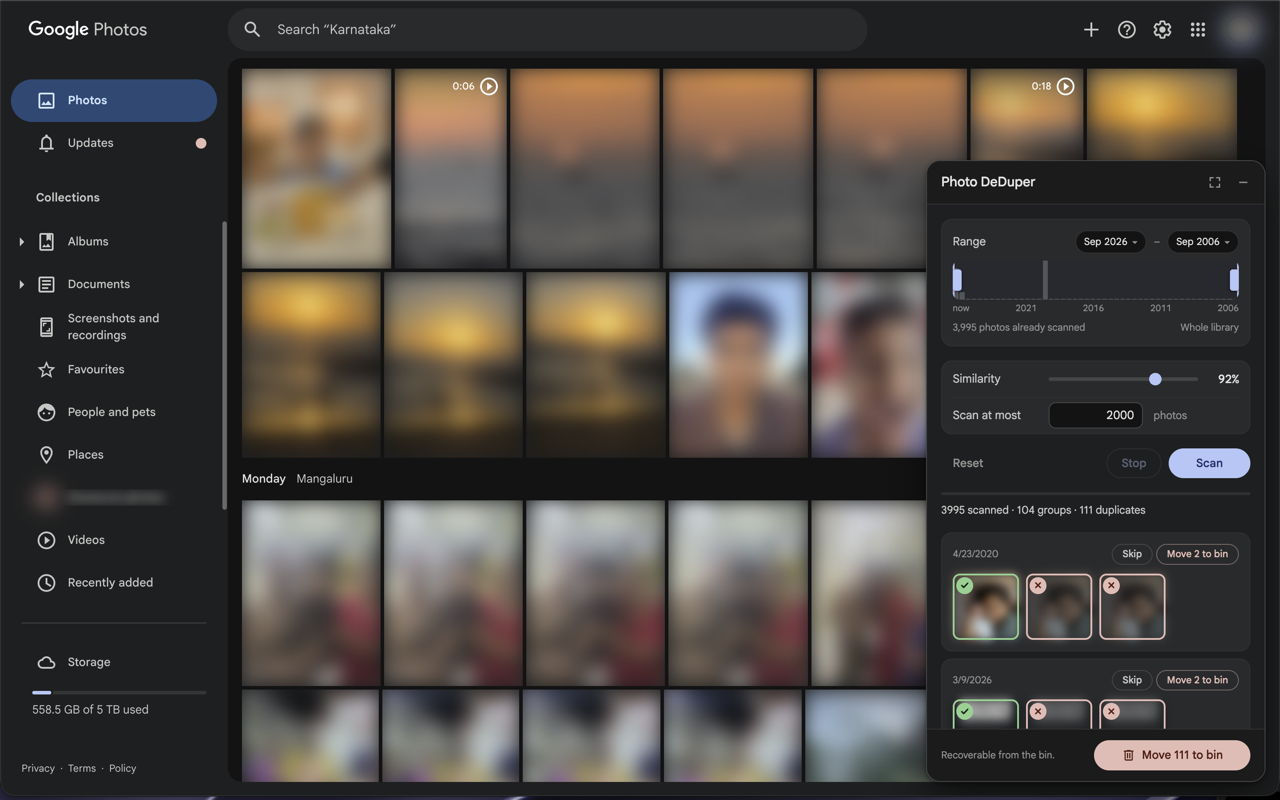
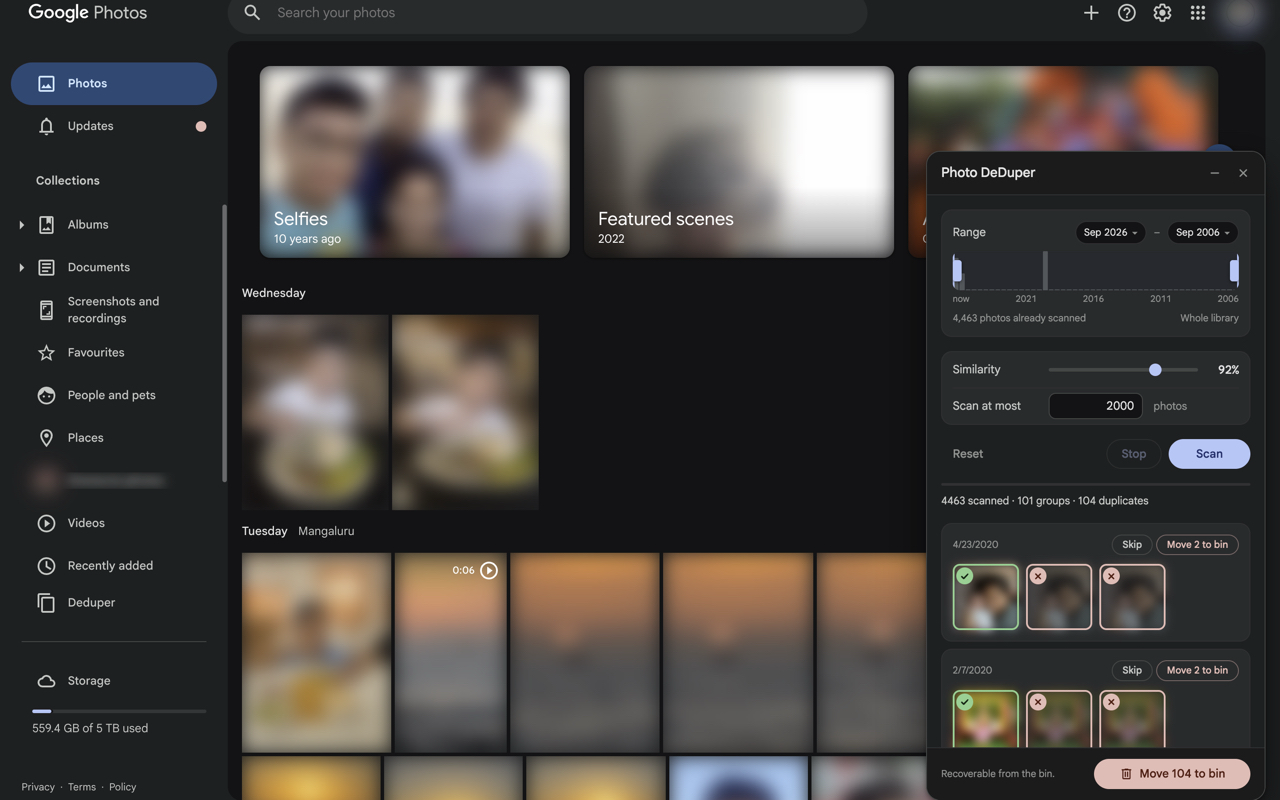
fix(ui): nothing reads the photo grid, so stop warning about it
The startup self-check was the only caller left of selectors.js: scanning,
grouping, preview and deletion all go through the page's own RPCs. On a view
without tiles it put up "Google Photos looks different" and never took it back,
which was wrong on every count. Both are gone.

Two other fixes and new listing screenshots:

- Arming the bin button remembers the status line and restores it when the
  fifteen-second timer disarms, instead of leaving the confirm sentence under a
  button that no longer confirms anything.
- Closing the panel sticks across reloads, and a note beside the sidebar says
  where to open it again.
- Four store screenshots at 1280x800 with no alpha channel, and STORE.md's
  permission justifications no longer describe reading the grid.

diff --git a/src/ui/nav.js b/src/ui/nav.js
@@ -48,6 +48,46 @@ window.GPDD.ui = window.GPDD.ui || {};
     return a;
   }
 
+  // Closing the panel leaves nothing on screen to say it can come back, so a
+  // note points at the entry for a few seconds. In its own shadow root, like
+  // the panel, so the page cannot style it.
+  let note = null;
+  function hint(entry) {
+    if (!note) {
+      note = document.createElement('div');
+      const root = note.attachShadow({ mode: 'open' });
+      root.innerHTML = /* HTML */ `
+        <style>
+          .n {
+            position: fixed;
+            z-index: 2147483647;
+            max-width: 240px;
+            padding: 10px 12px;
+            border-radius: 8px;
+            background: #303134;
+            color: #e8eaed;
+            font: 13px/1.4 Roboto, Arial, sans-serif;
+            box-shadow: 0 4px 16px #0009;
+            opacity: 0;
+            transition: opacity 0.2s;
+          }
+          .n.on {
+            opacity: 1;
+          }
+        </style>
+        <div class="n">Photo DeDuper is closed. Open it again from <b>Deduper</b> in the sidebar.</div>
+      `;
+      document.documentElement.append(note);
+    }
+    const n = note.shadowRoot.querySelector('.n');
+    const r = entry.getBoundingClientRect();
+    n.style.left = `${Math.round(r.right + 12)}px`;
+    n.style.top = `${Math.round(r.top)}px`;
+    n.classList.add('on');
+    clearTimeout(hint.t);
+    hint.t = setTimeout(() => n.classList.remove('on'), 6000);
+  }
+
   function mount(ui) {
     let entry = null;
     const place = () => {
@@ -64,8 +104,11 @@ window.GPDD.ui = window.GPDD.ui || {};
         wrap.appendChild(entry);
         storage.before(wrap);
       } else bin.after(entry);
-      ui.onVisibility = (on) => entry.setAttribute('aria-pressed', String(on));
-      ui.onVisibility(ui.host.style.display !== 'none');
+      ui.onVisibility = (on) => {
+        entry.setAttribute('aria-pressed', String(on));
+        if (!on) hint(entry);
+      };
+      entry.setAttribute('aria-pressed', String(ui.host.style.display !== 'none'));
     };
     place();
     // Google rebuilds the sidebar on navigation, which drops the entry. The

diff --git a/src/content.js b/src/content.js
@@ -1,7 +1,7 @@
 window.GPDD = window.GPDD || {};
 
 (() => {
-  const { sel, store, scanner, grouping, api } = window.GPDD;
+  const { store, scanner, grouping, api } = window.GPDD;
   const { mount, results, nav } = window.GPDD.ui;
   if (window.__gpddBooted) return;
   window.__gpddBooted = true;
@@ -17,27 +17,14 @@ window.GPDD = window.GPDD || {};
     if (msg && msg.type === 'togglePanel') ui.toggle();
   });
 
-  // The content script runs before the grid has rendered, so the check waits for
-  // tiles to appear rather than reporting an empty page as a broken one.
   refreshHistogram();
-
-  (async () => {
-    for (let i = 0; i < 30; i++) {
-      if (sel.liveTiles().length) break;
-      await new Promise((r) => setTimeout(r, 500));
-    }
-    const problems = sel.selfCheck();
-    if (problems.length) {
-      ui.setWarn('Google Photos looks different than this extension expects: ' + problems.join('; '));
-    }
-  })();
 
   // Reported once per render rather than per image, so a handful of dead
   // thumbnails says so plainly instead of leaving silent gaps in the review.
   ui.setThumbWarning = (n) => {
     ui.setWarn(
-      `${n} thumbnail${n === 1 ? '' : 's'} could not be loaded. Those photos are still in the results; ` +
-        'scroll the grid past them, or scan again, to pick up fresh links.'
+      `${n} thumbnail${n === 1 ? '' : 's'} could not be loaded. Those photos are still in the results and ` +
+        'can still be binned; scan again to pick up fresh thumbnail links.'
     );
   };
 
@@ -328,8 +315,10 @@ window.GPDD = window.GPDD || {};
   ui.del.onclick = () => {
     const n = state.toDelete.size;
     if (!armed) {
+      const was = ui.status.textContent;
       armed = setTimeout(() => {
         armed = null;
+        ui.setStatus(was, { keepUndo: true });
         refresh();
       }, 15000);
       // Kept short on purpose: a longer label reflows the footer and moves the

diff --git a/src/ui/panel.js b/src/ui/panel.js
@@ -6,6 +6,8 @@ window.GPDD.ui = window.GPDD.ui || {};
 (() => {
   const { CSS, ICON, range, preview, results } = window.GPDD.ui;
 
+  const HIDDEN = 'gpdd-hidden';
+
   const HTML = /* HTML */ `
     <div class="panel" data-ref="panel">
       <div class="hd"><b>Photo DeDuper</b><button class="min" data-ref="min" title="Minimise"></button><button class="close" data-ref="close" title="Close"></button></div>
@@ -60,6 +62,11 @@ window.GPDD.ui = window.GPDD.ui || {};
   function mount() {
     const host = document.createElement('div');
     host.id = 'gpdd-host';
+    // Closing the panel is meant to stick: it stays shut across reloads until
+    // the sidebar entry opens it again.
+    try {
+      if (localStorage.getItem(HIDDEN) === '1') host.style.display = 'none';
+    } catch {}
     const root = host.attachShadow({ mode: 'open' });
     const style = document.createElement('style');
     // Tokens and shared parts first, then each module's own rules, so a
@@ -134,6 +141,9 @@ window.GPDD.ui = window.GPDD.ui || {};
     // sidebar entry listens so it can mark itself selected while the panel is up.
     ui.toggle = (on = host.style.display === 'none') => {
       host.style.display = on ? '' : 'none';
+      try {
+        localStorage.setItem(HIDDEN, on ? '0' : '1');
+      } catch {}
       if (ui.onVisibility) ui.onVisibility(on);
     };
     return ui;

diff --git a/TODO.md b/TODO.md
@@ -10,7 +10,6 @@
 - [x] Guard against union-find chaining in src/grouping.js: members are merged transitively, so A~B and B~C puts A and C in one group even when A and C are 10 bits apart. The flat-crop fix removed the worst case, but a long chain of gradual near-matches can still over-merge. Consider capping group diameter, or splitting a group when its max pairwise distance exceeds ~2x the threshold.
 - [x] deleter: tiles under the 380px panel get a CDP click the panel swallows. Confirmed live: document.elementFromPoint at the safeRect centre of 7 of 38 clickable tiles returns DIV#gpdd-host. content.js never calls ui.setScanning(true) for a delete run, so the full panel is over the grid. Fix by reusing the scanbar for deletes, or by threading blockedRect into deleter.run the way hash.croppable already takes it. This, not the selection-toolbar reflow of 9a6ecf7, is the likely cause of "selection mismatch: clicked 2, 1 checked".
 - [x] deleter.js run(): when picked is empty but checkedCount() > 0, the stale selection is never cleared and the next round aborts on the mismatch guard. Clear it before scrolling.
-- [ ] selectors.js thumbUrl(): getComputedStyle(t).backgroundImage forces a style recalc for ~130 tiles 4x a second inside settle(). getAttribute('data-latest-bg') is free and is already used in overlay.js.
 - [ ] store.js open(): dbp caches a rejected promise, so one IndexedDB open failure poisons the tab for the session. Null dbp on reject.
 - [x] background.js detach(): moot - the debugger code is gone with the RPC-based delete.
 - [x] scanner.js: await hash.hashRects() is unguarded. Moot: the scanner no longer screenshots., so a worker restart mid-scan aborts the whole run instead of pausing the way res.inactive does. Matters over a ~1.9h 200k scan.
@@ -19,7 +18,6 @@
 - [x] manifest.json: <all_urls> dropped with the screenshot code. hash.js hamming() is still unused.
 - [x] Detail-view deleter tested on real photos. Navigation, the data-media-key identity check and the Move to bin click all work: two photos were confirmed in /trash. What does not work is the success check.
 - [x] deleter.js success detection is wrong. It waits for the binned photo to leave the viewport centre, and it never does - /photo/<id> renders identically for a binned photo and a live one (same "Move to bin" action, same data-media-key at the centre), so the run logs "did not leave the screen" and stops with deleted:0 after a photo it really did bin. The direction is safe (it under-reports rather than binning the wrong photo) but it stops the run and mis-reports. Next step: attach a MutationObserver over one real delete to capture the "Moved to bin" snackbar, which is the likely per-photo signal; failing that, verify in bulk at the end of a run by listing /trash, where freshly binned items sort to the top.
-- [ ] selectors.js PHOTO_ID is /\/photo\/([^/?#]+)/, which does not stop at '&'. A stray anchor on the page has href '/photo/<id>&service=lh2&ec=GBRAHw', so readTile() returns an id with the query glued on. It is harmless today because such anchors have no thumbnail and never get hashed, but the id is wrong. Add '&' to the exclusion set.
 - [x] Batch of 10 run end to end: 10 deleted, 0 not found, 12.4s total - 1.24s a photo, no rate limiting and no backoff needed. The IndexedDB row count fell by exactly 10, so every confirmation was matched by a store.remove. Google showed a confirm dialog on 9 of the 10 (not the first); the existing findConfirm handling cleared each one. Projected: the 247 currently selected would take about 5 minutes, against ~19 minutes a pass for the grid walk that preceded this.
 - [ ] Wire the panel's own delete button to api.run over a full selection. content.js calls it now, but the only runs so far went through a temporary hook; click the button over a real selection and watch that the count, the skips and the re-selection stay truthful to the end.
 - [x] The delete confirmation is weaker than the commit message for 8e73c6f claims. It matches "an rpcid this photo has not used before, after the click" - but none of those rpcids is the trash mutation. Captured shapes: VrseUb is photo metadata, SXol3b a thumbnail batch, l5andd a timeline range, xPf9xf and CuHOKd both fire on a plain open. Re-binning an already-binned photo still reports deleted:1 while firing no request carrying the photo id at all. It has coincided with a real deletion every time it was checked (4 photos verified present in /trash), but a feed or prefetch request arriving just after a failed click would satisfy it too. Tighten once the real trash rpcid is known.
@@ -34,3 +32,4 @@
 - [x] Scan through the timeline RPC (lcxiM) plus a credentialed thumbnail fetch instead of scrolling and screenshotting. Measured: 10,000 photos in 96s at 64 in flight (104/s, 0 failures); 128 in flight measured at ~150/s, 256 worse. The server's ~600ms resize per cold thumbnail is the floor, not the client. Rows from the old screenshot scan are not comparable to the new hashes, so reset before the first RPC scan.
 - [x] background.js hashRects, hash.js croppable/hashRects, selectors.js findScroller and the <all_urls> permission are dead now that nothing is screenshotted. Removed; the startup selfCheck no longer looks for the scroller.
 - [ ] Full-scan progress bar: a full scan reports no percentage because the oldest date in the library is unknown up front. One extra lcxiM call at the far end (or the histogram from a previous scan) would give it a denominator.
+- [x] selectors.js removed: nothing but its own self-check read the photo grid, so the "Google Photos looks different" warning went with it.

diff --git a/README.md b/README.md
@@ -11,19 +11,35 @@ finds visually duplicate photos, and moves the ones you choose to the bin.
 - **Tunable** — one similarity slider, 70% to 100%. Set it to 100% to match only
   exact copies, or ease it down to catch crops, re-saves and re-compressions of
   the same shot.
-- **Recoverable** — Deleting moves photos to the Google Photos Trashbin where they sit for a month, and Undo puts the last run straight back.
+- **Recoverable** — Deleting moves photos to the Google Photos bin, where they stay for 60
+  days, and Undo puts the last run straight back.
 
 Independent: not made by, endorsed by, or affiliated with Google. Named "Google
 Photos DeDuper" until the store listing was prepared — the store forbids a name
 that implies affiliation. Listing copy is in [STORE.md](STORE.md); build the
 upload zip with `tools/package.sh`.
 
-![The panel open over a Google Photos library, showing scan progress and duplicate groups](store/screenshots/01-review.png)
+![The panel docked over a Google Photos library, showing the range slider, the similarity slider and the first duplicate groups](store/screenshots/01-review.png)
 
-_The panel docked over the library: range, similarity, and each duplicate group
-with its keeper ringed green. Photos are blurred in every screenshot here — a
-real library is somebody's family, so `src/dev-shot.js` blurs the page before
-anything is captured._
+_The panel docked over the library: date range, similarity, and the scan summary._
+
+![Duplicate groups, each with its keeper ringed green and the others marked for the bin](store/screenshots/02-groups.png)
+
+_Each group is one set of duplicates. The green ring is the keeper; every other
+photo in the group is marked for the bin, and Skip leaves the whole group alone._
+
+![A thumbnail hovered, showing the photo large with its capture time](store/screenshots/03-preview.png)
+
+_Hovering a thumbnail shows it large with its capture time, so two near-identical
+shots can be told apart before either is deleted._
+
+![The bin button armed, with the status line spelling out what the next click does](store/screenshots/04-confirm.png)
+
+_Nothing is deleted on one click: the button arms itself and the status line
+spells out exactly what the next click will do._
+
+_Photos are blurred in every screenshot here — a real library is somebody's
+family, so `src/dev-shot.js` blurs the page before anything is captured._
 
 ## Why it works this way
 
@@ -60,12 +76,12 @@ result is a skipped photo, never a wrongly binned one.
 
 ## Install
 
-Unpacked only. There is no store listing to install from.
+Unpacked, until the Chrome Web Store listing is live.
 
 1. `chrome://extensions` → enable **Developer mode**
 2. **Load unpacked** → select this folder
-3. Open <https://photos.google.com> and click the extension's toolbar icon to
-   show or hide the panel
+3. Open <https://photos.google.com>. Show or hide the panel from **Deduper** in
+   the sidebar, below Bin, or from the extension's toolbar icon.
 
 ## First run — do this before pointing it at anything large
 
@@ -98,7 +114,9 @@ Only then raise the cap.
    `=w192-h192-no` becomes `=w1200-h1200-no` and returns a genuinely larger
    image rather than an upscale.
 
-   The minimise button collapses the panel to its title bar.
+   The minimise button collapses the panel to its title bar. The close button
+   next to it hides the panel and keeps it hidden across reloads — a note by the
+   sidebar says so — until **Deduper** in the sidebar opens it again.
 
 4. **Move selected to bin** — click it twice (the button arms itself for fifteen
    seconds rather than opening a dialog; a content script's native `confirm()`
@@ -120,7 +138,8 @@ and each registers itself on `window.GPDD`.
 
 - `src/lib/` — no DOM: `store` (IndexedDB), `hash` (dHash), `grouping`,
   `api` (batchexecute calls: bin, restore, media info), `scanner` (listing plus
-  thumbnail hashing), `selectors` (the few Google Photos DOM facts still used).
+  thumbnail hashing). Nothing reads the photo grid: every fact the extension
+  needs comes from the same RPCs the page itself calls.
 - `src/ui/` — the panel, one component per file under `window.GPDD.ui`:
   `styles` (design tokens and the shared chrome, controls and buttons) and
   `icons` (inline SVG), `range` (month slider), `preview` (the hover preview),
@@ -170,16 +189,12 @@ whenever anything under `src/` or `manifest.json` changes.
   load each. Not viable at library scale, so it is not implemented.
 - Stored thumbnail URLs are a stable per-photo token plus a size suffix
   (`.../pw/AP1Gcz...=w192-h192-no`); only the suffix changes between sessions, so
-  they do not rot the way a signed URL would. Results still prefer the live
-  grid's URL for any photo currently rendered, and a thumbnail that fails to
-  load shows an empty frame and a count rather than a broken-image glyph.
+  they do not rot the way a signed URL would. A thumbnail that fails to load
+  shows an empty frame and a count rather than a broken-image glyph.
 - Videos are always excluded. A video's hash can only come from its poster
   frame - the still Google shows in the grid - so a match means one frame
   looked alike, which is not enough to bin a clip on. Measured on a real
   library: 135 videos produced 0 exact and 1 near match.
-- Selectors are all in `src/lib/selectors.js` with a self-check that surfaces
-  "Google Photos looks different" in the panel instead of silently finding
-  nothing.
 
 ## Credits
 

diff --git a/STORE.md b/STORE.md
@@ -42,8 +42,10 @@ Copy for the Developer Dashboard. Keep this file in step with `manifest.json`.
 
 | File | Shows |
 | --- | --- |
-| `01-review.png` | The panel over the grid, result cards with their Skip and bin buttons |
-| `03-confirm.png` | The confirm step, with the status line spelling out what the next click does |
+| `01-review.png` | The panel docked over the library: date range, similarity, and the scan summary |
+| `02-groups.png` | Duplicate groups, each with its keeper ringed green and the others marked for the bin |
+| `03-preview.png` | A hovered thumbnail shown large with its capture time |
+| `04-confirm.png` | The bin button armed, with the status line spelling out what the next click does |
 
 They were taken against a real library, so every photo is blurred in CSS before
 capture — a listing screenshot is public. `src/dev-shot.js` does the blurring;
@@ -68,8 +70,8 @@ The helper is development-only and `tools/package.sh` keeps it out of the zip.
 
 | Requested | Justification |
 | --- | --- |
-| `host_permissions: https://photos.google.com/*` | The extension only works on this one site. It reads the photo grid to fingerprint thumbnails, and calls the same endpoints the page itself uses to move the selected photos to the bin. |
-| Content script on `https://photos.google.com/*` | The review panel is drawn into the page, and the grid can only be read from inside it. |
+| `host_permissions: https://photos.google.com/*` | The extension only works on this one site. It fetches each photo's own thumbnail to fingerprint it, and calls the same endpoints the page itself uses to list the library and to move the selected photos to the bin. |
+| Content script on `https://photos.google.com/*` | The review panel is drawn into the page, and those endpoints only answer from inside it, with the signed-in session the page already holds. |
 
 No other permissions are requested. Fingerprints are stored in IndexedDB, which
 needs no permission, and there is no remote code: every script ships in the
